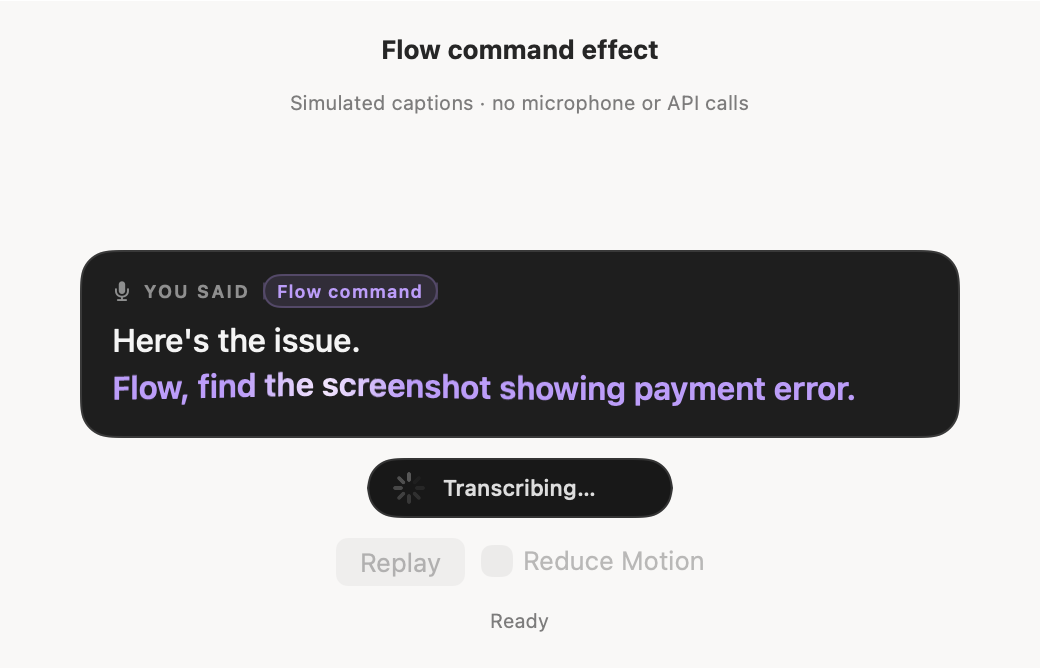
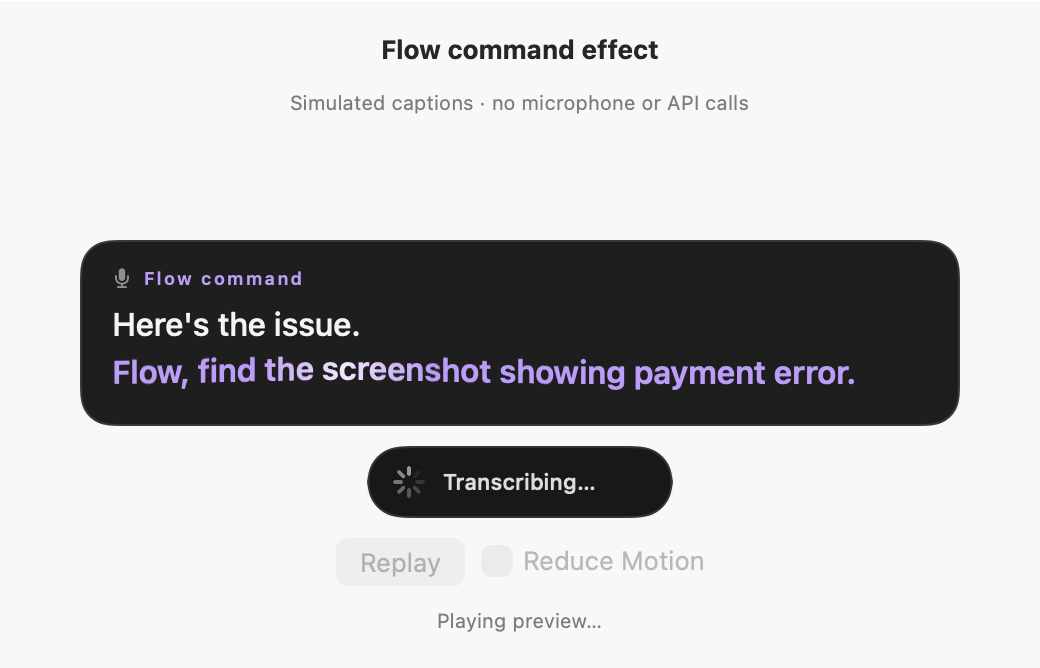
Keep the voice bar steady and animate only the Listening indicator

diff --git a/scripts/preview-command-ripple.swift b/scripts/preview-command-ripple.swift
@@ -26,7 +26,7 @@ final class RipplePreview: ObservableObject {
 
     func run() async {
         guard !running else { return }
-        running = true; frames = []; reduceMotion = false; attachments.dismiss(); results?.hide()
+        running = true; status = "Playing preview…"; frames = []; reduceMotion = false; attachments.dismiss(); results?.hide()
         state.isRecording = false; state.isProcessing = false; state.liveTranscript = ""
         var checks: [String: Bool] = [:]
         do {
@@ -49,7 +49,10 @@ final class RipplePreview: ObservableObject {
                 try await Task.sleep(for: .milliseconds(150))
             }
             savePNG("command-ripple-listening.png")
-            checks["recording_cue_stays_plain"] = FlowCommandCaption.detect(in: state.liveTranscript, isRecording: true) == nil
+            try await Task.sleep(for: .milliseconds(200))
+            savePNG("command-ripple-listening-dots.png")
+            checks["listening_dots_preview_rendered"] = FileManager.default.fileExists(atPath: output.appendingPathComponent("command-ripple-listening-dots.png").path)
+            checks["recording_cue_has_no_command_highlight"] = FlowCommandCaption.detect(in: state.liveTranscript, isRecording: true) == nil
             checks["explicit_cue_detected"] = FlowCommandCaption.detect(in: state.liveTranscript)?.command == "Flow, find the screenshot showing payment error."
             state.isRecording = false; state.isProcessing = true
             // A stale audio sample must not show a microphone waveform in this phase.
@@ -61,29 +64,15 @@ final class RipplePreview: ObservableObject {
             try await Task.sleep(for: .seconds(LiquidCommandText.settleDuration / 2 + 0.1)); savePNG("command-ripple-settled.png")
             let plan = try JSONDecoder().decode(AttachmentPlan.self, from: Data(#"{"message":"Here's the issue.","command":"Flow, find the screenshot showing payment error.","request":{"source":"file_search","kind":"image","query":"showing payment error"}}"#.utf8))
             attachments.receive(plan)
-            checks["badge_uses_real_search_state"] = attachments.searching
+            checks["status_uses_real_search_state"] = attachments.searching
             for _ in 0..<60 where attachments.searching { try await Task.sleep(for: .milliseconds(50)) }
             checks["real_local_ocr_produces_handoff_candidates"] = attachments.candidates.count == 2 && attachments.candidates.allSatisfy { $0.matchedImageText == ["payment", "error"] }
             try await Task.sleep(for: .milliseconds(150)); savePNG("command-ripple-found.png")
             recording.cancel()
             writeGIF()
-            attachments.dismiss()
-            reduceMotion = true
-            state.isRecording = true; state.isProcessing = false; state.liveTranscript = sentence
-            try await Task.sleep(for: .milliseconds(100)); state.isRecording = false; state.isProcessing = true
-            try await Task.sleep(for: .milliseconds(250)); savePNG("command-ripple-reduced-motion.png")
-            checks["reduced_motion_preview_rendered"] = FileManager.default.fileExists(atPath: output.appendingPathComponent("command-ripple-reduced-motion.png").path)
-            state.isRecording = true; state.isProcessing = false; state.liveTranscript = "I use Flow every day."
-            try await Task.sleep(for: .milliseconds(150)); savePNG("command-ripple-ordinary-mention.png")
-            checks["ordinary_mention_is_not_a_command"] = FlowCommandCaption.detect(in: state.liveTranscript) == nil
-            state.isRecording = false; state.isProcessing = true
-            state.liveTranscript = "Here's the issue. Flow, find the screenshot showing " + String(repeating: "payment error details ", count: 12)
-            try await Task.sleep(for: .milliseconds(150)); savePNG("command-ripple-long-command.png")
-            checks["long_command_preview_rendered"] = FileManager.default.fileExists(atPath: output.appendingPathComponent("command-ripple-long-command.png").path)
-            state.liveTranscript = sentence
-            reduceMotion = false
-            attachments.receive(plan)
-            for _ in 0..<60 where attachments.searching { try await Task.sleep(for: .milliseconds(50)) }
+            // Alternate test fixtures must never change the visible demo state.
+            checks.merge(await verifyHiddenVariants()) { _, new in new }
+            checks.merge(await verifyWindowVisibility()) { _, new in new }
             results = AttachmentPreviewWindow(session: attachments, engine: state.engine)
             attachments.onDismiss = { [weak self] in self?.results?.hide() }
             results?.show(candidateCount: attachments.candidates.count, isSearch: true)
@@ -91,9 +80,74 @@ final class RipplePreview: ObservableObject {
             status = "Preview complete · Replay to watch again"
         } catch { status = error.localizedDescription }
         let report: [String: Any] = ["scope": "Native production caption/ripple views with labelled simulated captions and real local OCR. No microphone recording, cloud API calls or Messages changes. Still images and GIF require visual review.",
-            "checks": checks, "frames": frames.count, "frame_interval_ms_target": 50, "status": checks.count == 9 && checks.values.allSatisfy { $0 } ? "ready" : "failed"]
+            "checks": checks, "frames": frames.count, "frame_interval_ms_target": 50, "status": checks.count == 13 && checks.values.allSatisfy { $0 } ? "ready" : "failed"]
         try? JSONSerialization.data(withJSONObject: report, options: [.prettyPrinted, .sortedKeys]).write(to: output.appendingPathComponent("command-ripple-verification.json"))
         running = false
+    }
+
+    private func verifyHiddenVariants() async -> [String: Bool] {
+        let variant = RipplePreview(folder: folder, output: output)
+        variant.status = "Offscreen verification"
+        let host = NSHostingView(rootView: RipplePreviewView(model: variant)
+            .frame(maxWidth: .infinity, maxHeight: .infinity).background(FW.background))
+        host.sizingOptions = []
+        host.frame = NSRect(x: 0, y: 0, width: 520, height: 350)
+        let window = NSWindow(contentRect: host.frame, styleMask: [.borderless], backing: .buffered, defer: false)
+        window.isReleasedWhenClosed = false
+        window.contentView = host
+        defer { window.close() }
+        variant.capture = { [weak host] in
+            guard let host, let bitmap = host.bitmapImageRepForCachingDisplay(in: host.bounds) else { return nil }
+            host.cacheDisplay(in: host.bounds, to: bitmap)
+            return bitmap.cgImage
+        }
+        var checks: [String: Bool] = [:]
+        variant.reduceMotion = true
+        variant.state.isRecording = false; variant.state.isProcessing = true; variant.state.liveTranscript = sentence
+        try? await Task.sleep(for: .milliseconds(250))
+        variant.savePNG("command-ripple-reduced-motion.png")
+        checks["reduced_motion_preview_rendered"] = FileManager.default.fileExists(atPath: output.appendingPathComponent("command-ripple-reduced-motion.png").path)
+        variant.state.isRecording = true; variant.state.isProcessing = false; variant.state.liveTranscript = "I use Flow every day."
+        try? await Task.sleep(for: .milliseconds(150))
+        variant.savePNG("command-ripple-ordinary-mention.png")
+        checks["ordinary_mention_is_not_a_command"] = FlowCommandCaption.detect(in: variant.state.liveTranscript) == nil
+        variant.state.isRecording = false; variant.state.isProcessing = true
+        variant.state.liveTranscript = "Here's the issue. Flow, find the screenshot showing " + String(repeating: "payment error details ", count: 12)
+        try? await Task.sleep(for: .milliseconds(150))
+        variant.savePNG("command-ripple-long-command.png")
+        checks["long_command_preview_rendered"] = FileManager.default.fileExists(atPath: output.appendingPathComponent("command-ripple-long-command.png").path)
+        return checks
+    }
+
+    private func verifyWindowVisibility() async -> [String: Bool] {
+        let existing = Set(NSApplication.shared.windows.map(ObjectIdentifier.init))
+        let indicator = RecordingIndicatorWindow(appState: state, attachments: attachments)
+        guard let window = NSApplication.shared.windows.first(where: { $0.title == "Flow · Recording" && !existing.contains(ObjectIdentifier($0)) }) else { return [:] }
+        // Exercise real AppKit visibility offscreen, beneath the desktop, so
+        // regression checks cannot flash a second indicator over the live demo.
+        window.level = NSWindow.Level(rawValue: Int(CGWindowLevelForKey(.desktopWindow)) - 1)
+        indicator.show()
+        try? await Task.sleep(for: .milliseconds(450))
+        let frame = window.frame
+        var opaque = window.alphaValue >= 0.98, stable = true
+        for _ in 0..<4 {
+            indicator.show()
+            opaque = opaque && window.alphaValue >= 0.98
+            stable = stable && window.frame == frame
+            try? await Task.sleep(for: .milliseconds(40))
+        }
+        indicator.hide()
+        try? await Task.sleep(for: .milliseconds(100))
+        indicator.show()
+        try? await Task.sleep(for: .milliseconds(500))
+        let latestRequestWins = window.isVisible && window.alphaValue >= 0.98
+        indicator.hide()
+        try? await Task.sleep(for: .milliseconds(450))
+        window.isReleasedWhenClosed = false
+        window.close()
+        return ["repeated_show_keeps_indicator_opaque": opaque,
+                "repeated_show_keeps_indicator_position": stable,
+                "hide_then_show_preserves_latest_visibility": latestRequestWins]
     }
 
     private func savePNG(_ name: String) {

diff --git a/Sources/FlowApp/RecordingIndicatorWindow.swift b/Sources/FlowApp/RecordingIndicatorWindow.swift
@@ -12,11 +12,13 @@ import SwiftUI
 final class RecordingIndicatorWindow {
     private let window: NSPanel
     private var visibility = UUID()
+    private var wantsVisible = false
 
     init(appState: AppState, attachments: AttachmentSession? = nil) {
         let view = RecordingIndicatorView(attachmentSession: attachments)
             .environmentObject(appState)
         let hosting = NSHostingController(rootView: view)
+        hosting.sizingOptions = []
 
         let panel = NSPanel(contentViewController: hosting)
         panel.title = "Flow · Recording"
@@ -36,9 +38,13 @@ final class RecordingIndicatorWindow {
     }
 
     func show() {
+        // Recording/loading/processing can each request the same visible panel.
+        // Do not restart its fade or move it on those phase updates.
+        guard !wantsVisible else { return }
+        wantsVisible = true
         visibility = UUID()
         let session = visibility
-        window.alphaValue = 0
+        if !window.isVisible { window.alphaValue = 0 }
         positionWindow()
         window.orderFrontRegardless()
 
@@ -56,6 +62,8 @@ final class RecordingIndicatorWindow {
     }
 
     func hide() {
+        guard wantsVisible else { return }
+        wantsVisible = false
         visibility = UUID()
         let session = visibility
         NSAnimationContext.runAnimationGroup { context in
@@ -113,9 +121,13 @@ struct RecordingIndicatorView: View {
                 if appState.isRecording && !appState.isProcessing && !appState.isInitializingModel {
                     CompactWaveformView(isRecording: true, audioLevel: appState.smoothedAudioLevel)
                 }
-                Text(appState.isInitializingModel ? "Loading model…" : (appState.isRecording && !appState.isProcessing ? "Listening" : "Transcribing…"))
-                    .font(.system(size: 11, weight: .medium))
-                    .foregroundStyle(.white.opacity(0.85))
+                if appState.isRecording && !appState.isProcessing && !appState.isInitializingModel {
+                    ListeningStatusLabel(fontSize: 11, weight: .medium)
+                } else {
+                    Text(appState.isInitializingModel ? "Loading model…" : "Transcribing…")
+                        .font(.system(size: 11, weight: .medium))
+                        .foregroundStyle(.white.opacity(0.85))
+                }
                 if appState.isRecording && !appState.isProcessing && !appState.isInitializingModel {
                     Text(String(format: "%d:%02d", appState.recordingDuration / 60000, appState.recordingDuration / 1000 % 60))
                         .font(.system(size: 10, design: .monospaced))
@@ -125,6 +137,7 @@ struct RecordingIndicatorView: View {
                     Color.clear.frame(width: 14, height: 14).accessibilityHidden(true)
                 }
             }
+            .frame(height: 20)
             .padding(.horizontal, 14)
             .padding(.vertical, 8)
             .background(Capsule().fill(Color.black.opacity(0.9)))

diff --git a/Sources/FlowApp/ListeningStatusLabel.swift b/Sources/FlowApp/ListeningStatusLabel.swift
@@ -1,0 +1,35 @@
+import SwiftUI
+
+/// A steady label with a small left-to-right typing wave, only while listening.
+struct ListeningStatusLabel: View {
+    var fontSize: CGFloat = 9
+    var weight: Font.Weight = .semibold
+    @Environment(\.accessibilityReduceMotion) private var systemReduceMotion
+    @Environment(\.flowReduceMotion) private var requestedReduceMotion
+    private var reduceMotion: Bool { systemReduceMotion || requestedReduceMotion }
+
+    var body: some View {
+        HStack(alignment: .firstTextBaseline, spacing: 1) {
+            Text("Listening").font(.system(size: fontSize, weight: weight))
+            TimelineView(.animation(minimumInterval: 1.0 / 30, paused: reduceMotion)) { timeline in
+                HStack(alignment: .bottom, spacing: 2) {
+                    ForEach(0..<3) { index in
+                        let phase = timeline.date.timeIntervalSinceReferenceDate / 1.1 - Double(index) * 0.16
+                        let wave = reduceMotion ? 0 : pow(max(0, sin(phase * 2 * .pi)), 2)
+                        Circle()
+                            .fill(FlowCommandBadge.ink.opacity(reduceMotion ? 0.8 : 0.35 + 0.65 * wave))
+                            .frame(width: 2.5, height: 2.5)
+                            .offset(y: -2 * wave)
+                    }
+                }
+                .frame(width: 12, height: 8, alignment: .bottom)
+            }
+            .alignmentGuide(.firstTextBaseline) { $0[.bottom] - 1 }
+        }
+        .foregroundStyle(FlowCommandBadge.ink)
+        .fixedSize()
+        .accessibilityElement(children: .ignore)
+        .accessibilityLabel("Listening")
+        .accessibilityIdentifier("flow-listening-status")
+    }
+}

diff --git a/Sources/FlowApp/FlowCommandCaptionView.swift b/Sources/FlowApp/FlowCommandCaptionView.swift
@@ -33,13 +33,21 @@ struct FlowCommandCaptionView: View {
         VStack(alignment: .leading, spacing: 7) {
             HStack(spacing: 6) {
                 Image(systemName: "mic.fill")
-                Text(isRecording ? "YOU’RE SAYING" : "YOU SAID")
-                if parts != nil { FlowCommandBadge(title: commandStatus, onDarkSurface: true) }
+                if isRecording {
+                    ListeningStatusLabel()
+                } else if parts != nil {
+                    Text(commandStatus)
+                        .foregroundStyle(FlowCommandBadge.ink)
+                        .accessibilityIdentifier("flow-command-status")
+                } else {
+                    Text("Transcribing…")
+                }
                 Spacer(minLength: 2)
                 if isRecording { Text("LIVE").foregroundStyle(FW.recording) }
             }
             .font(.system(size: 9, weight: .semibold)).tracking(1)
             .foregroundStyle(.white.opacity(0.5))
+            .frame(height: 14)
             Group {
                 if let parts {
                     VStack(alignment: .leading, spacing: 2) {
@@ -57,7 +65,7 @@ struct FlowCommandCaptionView: View {
                         .lineLimit(2).contentTransition(.opacity)
                 }
             }
-            .frame(maxWidth: .infinity, minHeight: 40, alignment: .leading)
+            .frame(maxWidth: .infinity, minHeight: 48, alignment: .topLeading)
             .accessibilityIdentifier("recording-live-transcript")
         }
         .padding(.horizontal, FlowCaptionMetrics.inset).padding(.vertical, 12)

diff --git a/docs/command-ripple.md b/docs/command-ripple.md
@@ -2,7 +2,7 @@
 
 Explicit “Flow, attach/find/search…” instructions appear on a separate purple,
 semibold line in the existing live-caption card. Recipient text remains white.
-A Flow command badge makes the distinction visible without relying on color.
+A plain purple status label identifies the command without a capsule or pill.
 Ordinary mentions, quoted/reported instructions, negated cues and bare incomplete
 forms such as “Flow, attach” remain normal caption text. Saying “Flow” alone is
 not a command. The reserved pattern is “Flow, attach/find/search…” followed by an
@@ -11,7 +11,10 @@ Detection runs on the complete transcript before display cropping.
 This classifier only styles captions; the worker's authoritative command parser,
 message insertion and attachment safeguards are unchanged.
 
-During recording all live captions remain plain white, with no command badge.
+During recording all spoken words remain white. Only the Listening label and
+its three dots are purple; the dots pulse in a small left-to-right wave while
+audio is being captured, and remain static with Reduce Motion. There is no
+command highlight until recording stops.
 After recording stops, an explicit command with an object turns purple and a
 single 700 ms highlight and one smooth crest sweep from left to right,
 with up to 2 points of letter displacement. A Gaussian crest follows the highlight
@@ -29,14 +32,14 @@ command letters distort. Recipient text is outside that layer. Canvas's animatio
 timeline pauses after the pass. The final words stay purple. Long commands wrap
 to two lines and preserve the beginning/end when truncated.
 
-The badge follows actual attachment state: Finding screenshot/image/file… while
+The plain purple label follows actual attachment state: Finding screenshot/image/file… while
 searching, Adding attachment… during insertion, Added to draft after confirmation,
 and Needs detail for a clarification. The attachment picker repeats the Command
 badge. The full Messages runner passes its own attachment session into the HUD,
 so it observes the same real search as the popup.
 
-Reduce Motion disables the ripple, sweeping highlight and finishing flash while retaining static
-purple text, weight and the badge. A preview may request reduced motion but can
+Reduce Motion disables the ripple, sweeping highlight, finishing flash and
+listening-dot motion while retaining static purple text, weight and status. A preview may request reduced motion but can
 never override the system preference to enable motion. No model calls, new
 packages or separately compiled shader resources are involved. The implementation
 uses native [ImageRenderer](https://developer.apple.com/documentation/swiftui/imagerenderer)
@@ -52,6 +55,12 @@ python3 scripts/preview-command-ripple.py
 This builds production components and opens a labelled synthetic-caption preview
 with Replay and Reduce Motion controls. It also runs real local screenshot OCR
 in its dedicated synthetic folder, then displays the production attachment picker.
+Alternate visual fixtures run in a separate hidden host, so Replay never cycles
+the visible bar through test scenes. Native show/hide regressions run below the
+desktop, verifying that repeated show requests retain opacity and position and
+that the latest visibility request wins. The caption reserves consistent space
+and the lower pill keeps its height between phases; repeated production show
+requests no longer restart its fade-in.
 It never records microphone audio, invokes ASR/LLM APIs, or changes Messages. The
 existing signed app bundle and permissions are preserved; this is a separate
 review helper using the updated app components.
@@ -63,8 +72,8 @@ and long commands, and
 is a capture target, not a measured production frame-rate guarantee.
 
 35 Swift tests passed, including recording-phase gating, incomplete commands,
-quotation, negation, Unicode and full-context guards. Nine native preview checks
-passed after the post-recording recognition adjustment. The exported stills
+quotation, negation, Unicode and full-context guards. Thirteen native preview
+checks passed after the stable-bar/listening-dot adjustment. The exported stills
 were visually reviewed: command motion/glow, unchanged recipient text, no
 microphone waveform during processing, readable long commands and static reduced
 motion. A pixel comparison between active/settled fixtures also found no changes

diff --git a/docs/attachment-resume.md b/docs/attachment-resume.md
@@ -374,3 +374,28 @@ preview is open. Its launcher stops its checked previous Messages demo helper
 to avoid duplicate candidate popups, preserving the unsent draft and installed
 permissioned app. This verification used simulated captions and real local OCR,
 without microphone recording, new cloud requests or Messages writes.
+
+## Steady bar, plain status and animated Listening dots (October 18)
+
+The user reported flicker after the command appeared, requested Listening instead
+of You said, and wanted Attachment found as plain purple text rather than a pill.
+The preview was cycling its visible state through reduced-motion, ordinary-text
+and long-command test fixtures. Those now render in a separate hidden host,
+leaving the main demo untouched. Native indicator show calls are idempotent and
+no longer reset alpha to zero on phase updates. Hosting auto-sizing is disabled
+for its fixed panel; caption/header space and lower-pill height are steadier.
+
+The user then clarified that the purple listening effect should not color the
+recipient message. All live words, including Here's the issue, remain white.
+Only Listening and three small purple dots indicate capture; the dots pulse left
+to right, like typing, and stop when recording ends. Reduce Motion keeps the
+dots static. After Stop, the command-only ripple and synchronized fill/halo are
+unchanged. The header shows plain purple command/search status after detection,
+including Attachment found, with no status capsule. No You said label remains.
+
+All 13 native preview checks passed, including repeated-show opacity/position and
+hide/show interleaving. Listening and found frames were visually reviewed. Pixel
+comparison verified changing dots, unchanged white live-message pixels across
+dot frames and the same caption border position before/after recording. The
+review GIF and stills are updated. These checks used synthetic captions and real
+local OCR without microphone, cloud requests or Messages writes.
